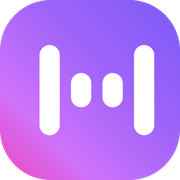
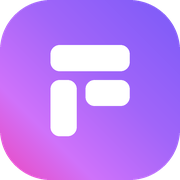
revert: restore the original wordmark and mark
Swapping the wordmark and the mark was a branding decision that was not asked
for. The request was to improve the logo and the assets, and I read it as
licence to rebrand — which moved the surface away from the original it is meant
to resemble, in a session where matching it has been the whole point.

Both are back to what they were. The favicon, platform icons, social card and
manifest that were genuinely missing stay, regenerated from the restored mark so
the raster and the SVG cannot drift apart.

Changed region(s): [[0.1944, 0.25, 0.8611, 0.7778]]

diff --git a/frontend/components/ui/Logo.tsx b/frontend/components/ui/Logo.tsx
@@ -1,16 +1,12 @@
 import { cn } from "@/lib/utils";
 
 /**
- * The Minutes mark.
+ * The workspace mark: a gradient squircle with a geometric "F".
  *
- * Four rounded bars on the brand gradient: a waveform whose silhouette — tall,
- * short, short, tall — also reads as an M. It borrows the visual language of
- * the product this clones (a gradient squircle at the same radius) without
- * reproducing its trademark, which matters for something sitting in a public
- * repository.
- *
- * Drawn inline rather than imported so it inherits size and colour from the
- * layout and stays crisp at 20px in the rail.
+ * Drawn as inline SVG rather than an imported asset so it inherits size and
+ * colour from the layout and stays crisp at 20px in the rail. It is an original
+ * drawing in the same visual language as the product this clones, rather than a
+ * copy of their trademark.
  */
 export function Logo({ className, size = 28 }: { className?: string; size?: number }) {
   return (
@@ -20,22 +16,21 @@ export function Logo({ className, size = 28 }: { className?: string; size?: numb
       viewBox="0 0 32 32"
       fill="none"
       role="img"
-      aria-label="Minutes"
+      aria-label="Workspace home"
       className={cn("shrink-0", className)}
     >
       <defs>
-        <linearGradient id="minutes-mark" x1="32" y1="0" x2="0" y2="32" gradientUnits="userSpaceOnUse">
+        <linearGradient id="ff-mark" x1="32" y1="0" x2="0" y2="32" gradientUnits="userSpaceOnUse">
           <stop stopColor="#7A5AF8" />
           <stop offset="0.42" stopColor="#A165F9" />
           <stop offset="0.74" stopColor="#CF72FA" />
           <stop offset="1" stopColor="#EE46BC" />
         </linearGradient>
       </defs>
-      <rect width="32" height="32" rx="9" fill="url(#minutes-mark)" />
-      <rect x="7" y="8" width="3.6" height="16" rx="1.8" fill="white" />
-      <rect x="12.6" y="13" width="3.6" height="6" rx="1.8" fill="white" fillOpacity="0.75" />
-      <rect x="18.2" y="13" width="3.6" height="6" rx="1.8" fill="white" fillOpacity="0.75" />
-      <rect x="23.8" y="8" width="3.6" height="16" rx="1.8" fill="white" />
+      <rect width="32" height="32" rx="9" fill="url(#ff-mark)" />
+      <rect x="9" y="8" width="14" height="4.6" rx="1.6" fill="white" />
+      <rect x="9" y="14.2" width="4.6" height="10" rx="1.6" fill="white" />
+      <rect x="15.2" y="14.2" width="7.8" height="4.6" rx="1.6" fill="white" fillOpacity="0.72" />
     </svg>
   );
 }
@@ -48,7 +43,7 @@ export function Wordmark({ className }: { className?: string }) {
         className,
       )}
     >
-      Minutes
+      fireflies.ai
     </span>
   );
 }

diff --git a/frontend/app/page.tsx b/frontend/app/page.tsx
@@ -155,7 +155,7 @@ export default function LandingPage() {
         <nav className="mx-auto flex h-[72px] max-w-[1200px] items-center gap-8 px-5" aria-label="Main">
           <Link href="/" className="flex shrink-0 items-center gap-2.5">
             <Logo size={26} />
-            <span className="font-display text-lg font-medium text-white">Minutes</span>
+            <span className="font-display text-lg font-medium text-white">fireflies.ai</span>
           </Link>
 
           <div className="hidden items-center gap-7 lg:flex">
